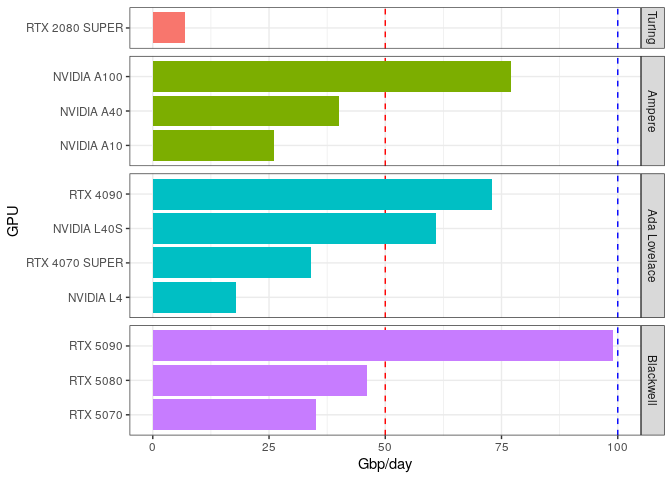
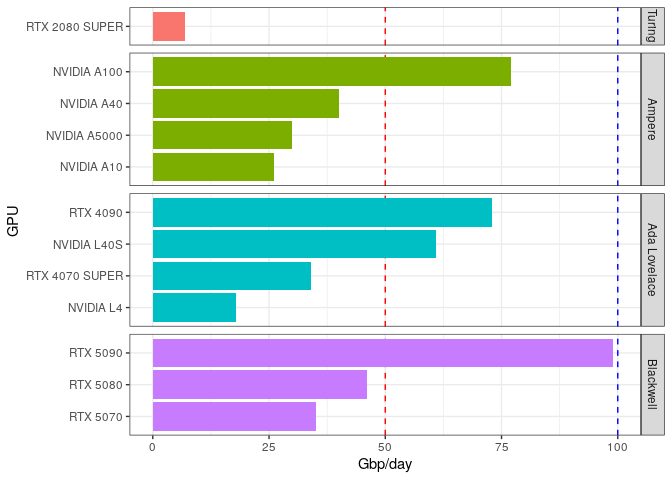
added A5000 info

diff --git a/README.md b/README.md
@@ -1,7 +1,7 @@
 README
 ================
 Rasmus Kirkegaard
-09 April, 2025
+10 April, 2025
 
 ## Aim
 
